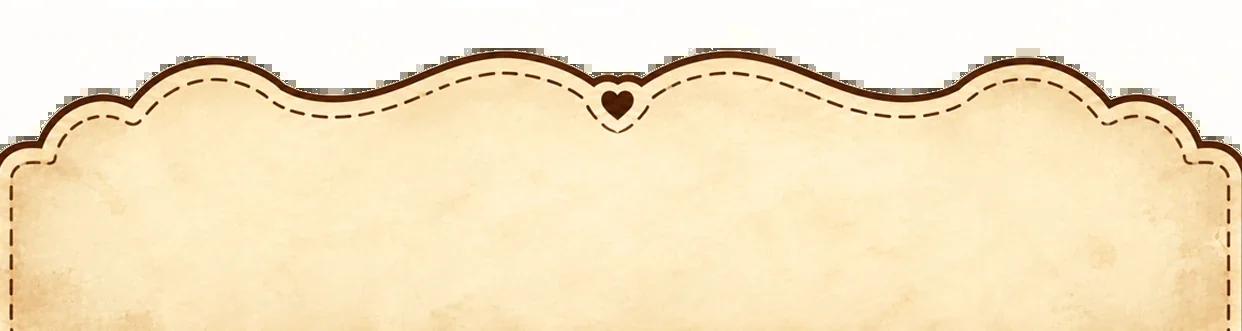
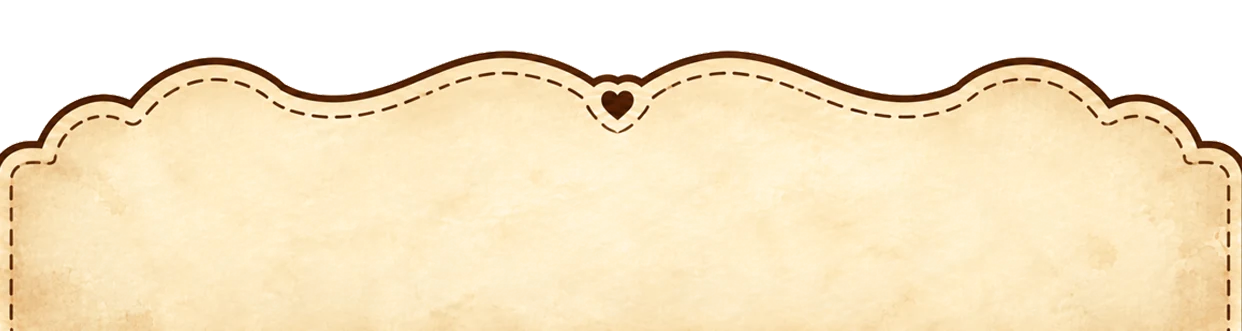
修复导航栏与 header 边缘未抠图 + 马赛克（alpha 被拍平）；矮屏首页可滚兜底
根因：header.webp / nav-bar.webp 此前是用 convert('RGB') 导出的，alpha 通道被丢弃，
透明区被拍平成实心底 —— header 的透明区存的是纯白(255,255,255,σ=0)，拍平后底部渐隐
变成一条白底硬边；导航栏透明区是近白(252,250,247)但 σ=16.8 的脏噪声，被当真实颜色编码，
叠加 WebP 4:2:0 色度子采样 ⇒ 边缘彩噪/马赛克块。

修复：新增 scripts/rebuild-alpha-webp.py，从原始 PNG（~/Downloads/素材库/png/UI库/）
重编码，先做 alpha bleed（把不透明像素的 RGB 外扩填满 a==0 区域，仅填 a==0，
不动半透明像素），再以 RGBA + quality=88 / alpha_quality=100 输出。
  · nav-bar.webp  1242x331  22KB → 153KB，透明 23.4% / 半透 50.7%（与源逐像素一致）
  · header.webp   1242x871 120KB → 145KB，沿用顶部 871 行裁剪（实测与线上平均差 2.98），
    宽高比不变 ⇒ 不引入版式回归；底部 alpha 在 y≈871 已衰减到 5，无硬切。

另：矮屏（≤780px 高）.home-header-art 改为 34dvh + object-cover 裁切 header，
#view-main 改 overflow-y-auto，修复入口按钮被挤出视口且完全滚不动的问题。

diff --git a/vercel-version/src/components/ImmersiveGameHome.tsx b/vercel-version/src/components/ImmersiveGameHome.tsx
@@ -57,7 +57,7 @@ export const ImmersiveGameHome: React.FC<Props> = ({
   return (
     <div
       id="view-main"
-      className="relative w-full h-full select-none flex flex-col justify-between overflow-hidden bg-[#FFFEEF]/55 backdrop-blur-md"
+      className="relative w-full h-full select-none flex flex-col justify-between overflow-y-auto no-scrollbar overscroll-contain bg-[#FFFEEF]/55 backdrop-blur-md"
     >
       {/* ====================================================
           1. 顶部 Header 横幅（不再使用卡片容器）
@@ -68,7 +68,7 @@ export const ImmersiveGameHome: React.FC<Props> = ({
         <img
           src="/images/header.webp"
           alt="LEVI × HANS WAREHOUSE 调查兵团特别驻地 · 情报与粮草整备"
-          className="w-full h-auto max-w-full block"
+          className="home-header-art w-full h-auto max-w-full block"
           referrerPolicy="no-referrer"
           fetchPriority="high"
         />

diff --git a/vercel-version/src/index.css b/vercel-version/src/index.css
@@ -42,6 +42,20 @@
     scrollbar-width: none;
   }
 
+  /* 首页 Header 图（1242×871，宽高比 1.43）：
+     满宽展示时在桌面宽度下高达 538px，短窗口里会把下面的入口按钮整个挤出可视区。
+     矮屏（≤780px）改为按视口高度扣边裁切，保留人物所在的中上段。 */
+  .home-header-art {
+    object-position: center 32%;
+  }
+
+  @media (max-height: 780px) {
+    .home-header-art {
+      max-height: 34dvh;
+      object-fit: cover;
+    }
+  }
+
   /* Height-based adjustments to prevent scroll on short screens
      （导航栏改为文档流占位后内容区变矮约一个导航栏高度，阈值同步下调） */
   @media (max-height: 690px) {

diff --git a/vercel-version/scripts/rebuild-alpha-webp.py b/vercel-version/scripts/rebuild-alpha-webp.py
@@ -1,0 +1,124 @@
+#!/usr/bin/env python3
+# -*- coding: utf-8 -*-
+"""
+把「带 alpha 的原始 PNG」重新编码成 WebP，且**必须保住透明度**。
+
+背景（2026-09-20 事故）
+----------------------
+header.webp / nav-bar.webp 之前是用 `img.convert('RGB')` 转出来的 —— alpha 通道被直接丢掉，
+透明区被拍平成实心底：
+  · header.png 的透明区存的是纯白 (255,255,255, σ=0)，拍平后底部渐隐变成一条白底硬边；
+  · 导航栏.png 的透明区存的是近白 (252,250,247) 但 σ=16.8 的脏噪声，拍平后这块噪声
+    被当成真实颜色编码，叠加 WebP 4:2:0 色度子采样 ⇒ 边缘出现彩噪 / 马赛克块。
+
+解法两步
+--------
+1) alpha bleed（渗色）：把不透明像素的 RGB 向外"膨胀"填满 a==0 的区域。
+   只填 a==0，绝不动 0<a<255 的半透明像素（它们的 RGB 是真实混合色，有语义）。
+   这样透明区 RGB 不再是垃圾值，4:2:0 子采样就不会把杂色渗到边缘。
+2) 用 RGBA 保存，quality 管 RGB、alpha_quality 管 alpha 通道。
+   alpha_quality=100 ⇒ alpha 无损，硬边不会被量化出锯齿。
+
+用法
+----
+    /Users/luna/.workbuddy/binaries/python/envs/default/bin/python \
+        scripts/rebuild-alpha-webp.py            # 跑下面 JOBS 里登记的任务
+
+新增任务：往 JOBS 里加一项。
+"""
+import sys
+from pathlib import Path
+
+import numpy as np
+from PIL import Image
+
+ROOT = Path(__file__).resolve().parent.parent
+SRC_LIB = Path.home() / "Downloads" / "素材库" / "png" / "UI库"
+
+# 渗色半径（像素）。WebP 4:2:0 的最大块是 16px 宏块 / 色度 8px，
+# 渗 8px 足够把整个块内部填满真实颜色，再大只是白白增大体积。
+BLEED_RADIUS = 8
+
+
+def alpha_bleed(rgba: np.ndarray, radius: int = BLEED_RADIUS) -> np.ndarray:
+    """把不透明像素的 RGB 向外膨胀，填满 a==0 区域（alpha 本身不变）。"""
+    out = rgba.copy()
+    a = out[:, :, 3]
+    filled = a > 0                      # 已经有颜色的像素（RGB 可信）
+    for _ in range(radius):
+        if filled.all():
+            break
+        # 四邻域膨胀：把已知像素的 RGB 推到相邻的 a==0 像素上
+        for dy, dx in ((1, 0), (-1, 0), (0, 1), (0, -1)):
+            src = np.roll(filled, (dy, dx), axis=(0, 1))
+            dst = (~filled) & src
+            if not dst.any():
+                continue
+            out[: dst.shape[0], : dst.shape[1], :3][dst] = np.roll(
+                out[:, :, :3], (dy, dx), axis=(0, 1)
+            )[dst]
+            filled = filled | dst
+    return out
+
+
+def rebuild(src: Path, dst: Path, crop=None, resize=None,
+            quality=88, alpha_quality=100, method=6):
+    im = Image.open(src)
+    if im.mode not in ("RGBA", "LA") and not (im.mode == "P" and "transparency" in im.info):
+        raise SystemExit(f"[跳过] {src.name} 源图本身没有 alpha（mode={im.mode}），无需本脚本处理")
+    im = im.convert("RGBA")
+    if crop:
+        im = im.crop(crop)
+    if resize:
+        im = im.resize(resize, Image.Resampling.LANCZOS)
+
+    arr = np.asarray(im)
+    before_zero = int((arr[:, :, 3] == 0).sum())
+    arr = alpha_bleed(arr)
+    im2 = Image.fromarray(arr, "RGBA")
+
+    dst.parent.mkdir(parents=True, exist_ok=True)
+    im2.save(dst, "WEBP", quality=quality, alpha_quality=alpha_quality, method=method, exact=False)
+
+    # 回读自检：输出必须真的带 alpha，且透明像素数量与源一致
+    chk = Image.open(dst).convert("RGBA")
+    ca = np.asarray(chk)[:, :, 3]
+    ok = (int((ca == 0).sum()) == before_zero)
+    print(f"  {dst.name:<20} {im.size[0]}x{im.size[1]}  "
+          f"源 {src.stat().st_size // 1024}KB → {dst.stat().st_size // 1024}KB  "
+          f"透明像素 {before_zero} → {int((ca == 0).sum())}  "
+          f"{'✓ alpha 保住' if ok else '✗ alpha 丢失!'}")
+    if not ok:
+        raise SystemExit(f"[失败] {dst} 输出丢了 alpha 通道")
+    return dst.stat().st_size
+
+
+# ── 任务表：源 → 目标 -------------------------------------------------------
+# crop 用 (left, top, right, bottom)
+JOBS = [
+    dict(
+        src=SRC_LIB / "导航栏.png",
+        dst=ROOT / "public/images/nav-bar.webp",
+        # 保持线上既有几何 1242×331，不引发布局回归
+    ),
+    dict(
+        src=SRC_LIB / "header.png",
+        dst=ROOT / "public/images/header.webp",
+        # 线上 header.webp 是源图顶部 871 行的裁剪（实测平均差 2.98），
+        # 沿用同一裁剪以保证宽高比不变 ⇒ 不改版式。
+        crop=(0, 0, 1242, 871),
+    ),
+]
+
+
+if __name__ == "__main__":
+    print("Pillow", Image.__version__)
+    total = 0
+    for job in JOBS:
+        src = job.pop("src")
+        dst = job.pop("dst")
+        if not src.exists():
+            print(f"  ✗ 源图不存在: {src}")
+            continue
+        total += rebuild(src, dst, **job)
+    print(f"合计 {total // 1024}KB")
